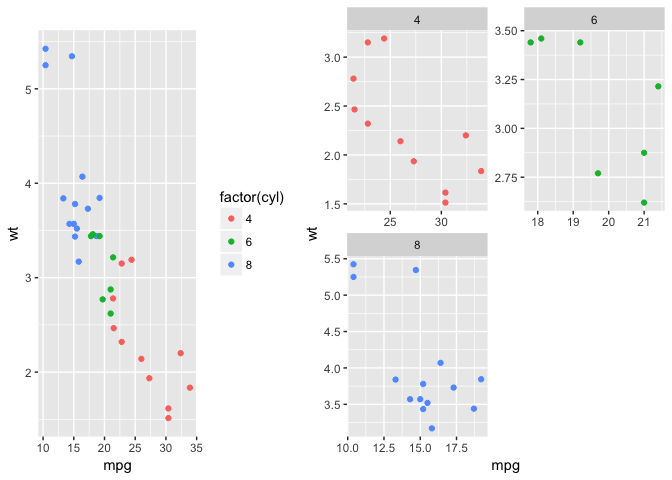
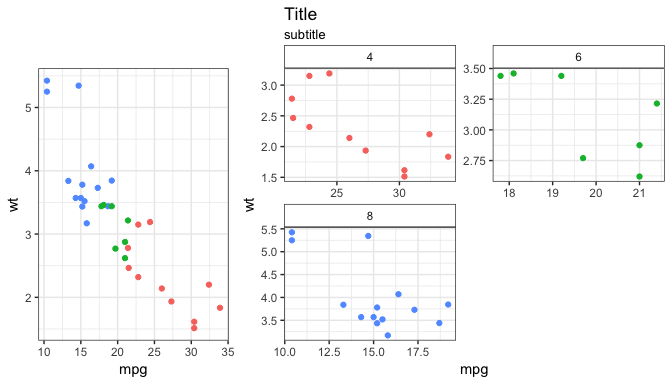
readme

diff --git a/README.md b/README.md
@@ -54,7 +54,7 @@ p2 <- ggplot(mtcars, aes(mpg, wt, colour = factor(cyl))) +
   theme()
 
 p3 <- ggplot(mtcars, aes(mpg, wt, colour = factor(cyl))) +
-  geom_point() + facet_grid(. ~ cyl, scales = "free")
+  geom_point() + facet_grid(. ~ am, scales = "free") + guides(colour="none")
 
 g1 <- ggplotGrob(p1)
 
@@ -70,7 +70,7 @@ fg12 <- gtable_frame(gtable_rbind(fg1, fg2),
 fg3 <-
   gtable_frame(
     g3,
-    width = unit(1, "null"),
+    width = unit(2, "null"),
     height = unit(1, "null"),
     debug = TRUE
   )
@@ -88,11 +88,15 @@ This is a convenience function based on the above, more useful than `grid.arrang
 
 ``` r
 p1 <- ggplot(mtcars, aes(mpg, wt, colour = factor(cyl))) +
-  geom_point()
+  geom_point() +
+  guides(colour = "none") +
+  theme_bw() + theme(strip.background = element_blank())
+
 p2 <- ggplot(mtcars, aes(mpg, wt, colour = factor(cyl))) +
   geom_point() + facet_wrap(~ cyl, ncol = 2, scales = "free") +
   guides(colour = "none") +
-  theme()
+  labs(title = "Title", subtitle = "subtitle") +
+  theme_bw() + theme(strip.background = element_rect(fill = "transparent"))
 
 ggarrange(p1, p2, widths = 1:2)
 ```
@@ -107,3 +111,31 @@ ggarrange(p, p, p, widths = c(3, 1), heights = c(5, 1))
 ```
 
 ![](tools/README/ggarrangelayout-1.png)
+
+Custom geom
+-----------
+
+The function `geom_custom` extends the ggplot2 function `annotation_custom` to cases where multiple grobs are to be placed, e.g. on different panels, or at different positions in a plot. This geom is a bit special in that it does not truly respect a *grammar of graphics* -- arbitrary grobs can be plotted, with no explicit mapping to variables. Its typical use would be to place illustrating images on a plot.
+
+``` r
+codes <- data.frame(country = c("nz","ar","fr","gb","es"))
+codes$y <- runif(nrow(codes))
+codes$url <- sapply(codes$country, sprintf, fmt="https://github.com/hjnilsson/country-flags/raw/master/png250px/%s.png")
+
+gl <- Map(function(x, y) {
+  destfile <- paste0(y, '.png')
+  if(!file.exists(destfile))
+    download.file(x, destfile = destfile)
+  png::readPNG(destfile)
+}, x = codes$url, y = codes$country)
+
+codes$raster <- I(gl)
+
+ggplot(codes, aes(x = country, y = y)) + 
+  geom_point() +
+  geom_custom(data = codes, aes(data=raster), 
+              grob_fun = rasterGrob, 
+              fun_params = list(height=unit(1,"cm")))
+```
+
+![](tools/README/custompics-1.png)
